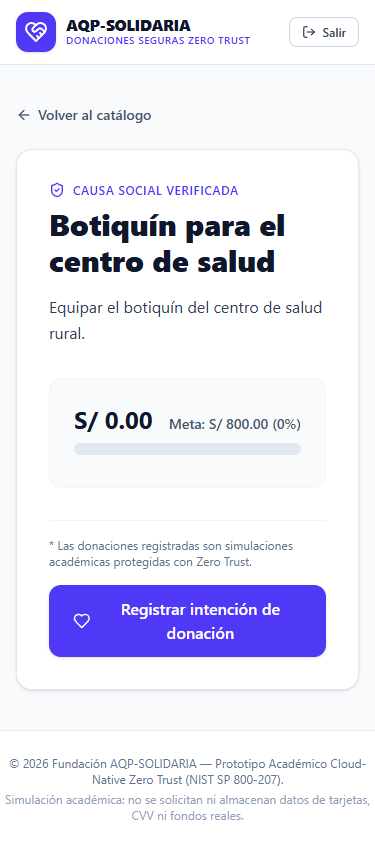
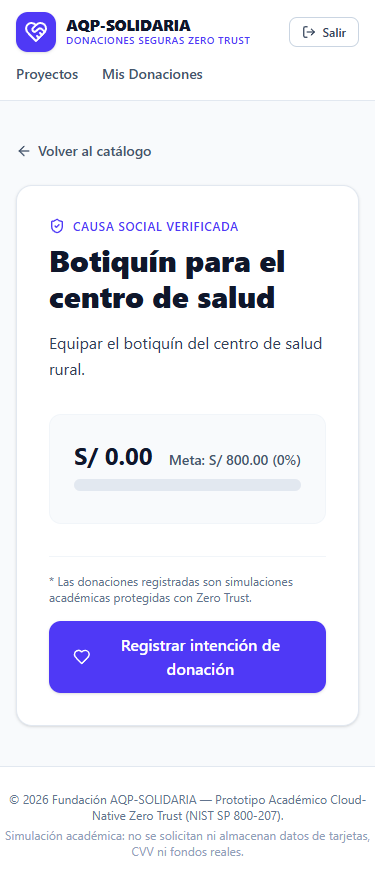
fix(a11y): permitir historial y confirmacion desde movil

diff --git a/frontend/src/components/Navbar.tsx b/frontend/src/components/Navbar.tsx
@@ -14,7 +14,7 @@ export const Navbar: React.FC = () => {
   return (
     <nav className="bg-white border-b border-slate-200 sticky top-0 z-40">
       <div className="max-w-7xl mx-auto px-4 sm:px-6 lg:px-8">
-        <div className="flex justify-between h-16 items-center">
+        <div className="flex flex-wrap justify-between items-center gap-y-3 py-3 md:py-0 md:h-16">
           {/* Brand */}
           <Link to="/" className="flex items-center gap-2.5">
             <div className="w-10 h-10 rounded-xl bg-indigo-600 text-white flex items-center justify-center font-bold text-lg shadow-sm">
@@ -31,7 +31,7 @@ export const Navbar: React.FC = () => {
           </Link>
 
           {/* Navigation Links */}
-          <div className="hidden md:flex items-center gap-6 text-sm font-medium">
+          <div className="order-3 flex w-full flex-wrap items-center gap-x-6 gap-y-3 pb-1 text-sm font-medium md:order-none md:w-auto md:pb-0">
             <Link to="/" className="text-slate-600 hover:text-indigo-600 transition-colors">
               Proyectos
             </Link>
@@ -71,7 +71,7 @@ export const Navbar: React.FC = () => {
           </div>
 
           {/* Auth Actions */}
-          <div className="flex items-center gap-3">
+          <div className="ml-auto md:ml-0 flex items-center gap-3">
             {user ? (
               <div className="flex items-center gap-3">
                 <div className="hidden sm:flex flex-col text-right">
@@ -94,7 +94,7 @@ export const Navbar: React.FC = () => {
                 <button
                   type="button"
                   onClick={logout}
-                  className="inline-flex items-center gap-1.5 px-3 py-1.5 rounded-lg border border-slate-300 text-xs font-semibold text-slate-700 hover:bg-slate-50 focus:outline-none"
+                  className="inline-flex items-center gap-1.5 px-3 py-1.5 rounded-lg border border-slate-300 text-xs font-semibold text-slate-700 hover:bg-slate-50 focus-visible:outline-2 focus-visible:outline-offset-2 focus-visible:outline-indigo-600"
                   title="Cerrar sesión"
                 >
                   <LogOut className="w-3.5 h-3.5" /> Salir
@@ -104,7 +104,7 @@ export const Navbar: React.FC = () => {
               <button
                 type="button"
                 onClick={login}
-                className="inline-flex items-center gap-1.5 px-4 py-2 rounded-xl bg-indigo-600 text-xs font-semibold text-white hover:bg-indigo-700 shadow-sm transition-colors focus:outline-none"
+                className="inline-flex items-center gap-1.5 px-4 py-2 rounded-xl bg-indigo-600 text-xs font-semibold text-white hover:bg-indigo-700 shadow-sm transition-colors focus-visible:outline-2 focus-visible:outline-offset-2 focus-visible:outline-indigo-600"
               >
                 <LogIn className="w-4 h-4" /> Iniciar Sesión (PKCE)
               </button>

diff --git a/backend/test/browser/spa.test.ts b/backend/test/browser/spa.test.ts
@@ -193,6 +193,16 @@ describe.each(SITES)("SPA served as: %s", (kind) => {
       await page.getByRole("button", { name: "Aceptar" }).focus();
       await page.keyboard.press("Enter");
       expect(await opener.evaluate((node) => node === document.activeElement)).toBe(true);
+      const historyLink = page.getByRole("link", { name: "Mis Donaciones" });
+      await historyLink.waitFor();
+      await historyLink.focus();
+      await page.keyboard.press("Enter");
+      const simulate = page.getByRole("button", { name: "Simular Aprobación" }).first();
+      await simulate.waitFor();
+      await simulate.focus();
+      await page.keyboard.press("Enter");
+      await page.getByText("CONFIRMADA_SIMULADA", { exact: true }).waitFor();
+      await capture("simulation-375");
       expect(watched.consoleErrors).toEqual([]);
     } finally {
       await context.close();

diff --git a/evidence/qa-accessibility.md b/evidence/qa-accessibility.md
@@ -13,25 +13,31 @@ El login usa el proveedor del emulador; esta evidencia no verifica el Hosted UI 
 - El resultado conserva un título accesible y recibe el foco al registrarse la donación.
 - El campo monetario admite céntimos (`step=0.01`), en lugar de saltos de S/ 0.50 que impedían enviar S/ 1.01.
 - Los errores del envío tienen `role=alert` y se relacionan con el campo. El botón de cierre tiene foco visible.
+- La navegación ocultaba todos sus enlaces por debajo de 768 px: un donante móvil no podía abrir su historial.
+  Ahora los mismos enlaces se muestran en una fila adaptable, manteniendo la visibilidad por rol.
 
 ## Verificaciones automatizadas
 
 - Catálogo, detalle, modal y confirmación a 375 px sin desbordamiento horizontal de la página.
 - Abrir y enviar con Enter; Tab y Shift+Tab dentro del diálogo; cerrar con Escape y recuperar el foco de apertura.
 - Registrar S/ 1.01 con el backend del emulador y comprobar el resultado y el nombre accesible del diálogo.
+- Abrir Mis Donaciones desde la barra móvil y confirmar la simulación con Enter, hasta `CONFIRMADA_SIMULADA`.
 - Capturas en `.local/qa/built/` y `.local/qa/vite-dev/`, sin tokens ni credenciales.
 
-Resultado: `npm run test:browser` pasó **36/36** pruebas, incluido el caso nuevo en ambos modos. La ejecución
+Resultado inicial: `npm run test:browser` pasó **36/36** pruebas, incluido el caso nuevo en ambos modos. La ejecución
 completa duró 184,74 s. Typecheck de backend/frontend sin errores; ESLint sobre los archivos cambiados sin errores
 (se conserva la advertencia de tamaño del componente). La prueba nueva recorrió ocho Tab seguidos y ocho
 Shift+Tab, además de Escape y retorno de foco. Se inspeccionaron visualmente las cuatro capturas del build.
+Después de extender el recorrido al historial y su simulación, la ejecución focalizada pasó **2/2** (build y Vite),
+en 87,96 s. La captura adicional muestra la confirmación simulada y el acceso móvil al historial.
 
 El caso móvil crea una cuenta DONANTE independiente por modo. El build y Vite comparten stack: reutilizar la cuenta
 de demostración para todos los casos añadía seis donaciones y podía agotar el cupo de cinco por minuto en un runner
 rápido. Se aísla el dato de prueba; no se elevan ni desactivan los límites de seguridad.
 
 Capturas conservadas: [catálogo](qa-mobile/catalog-375.png), [detalle](qa-mobile/detail-375.png),
-[donación](qa-mobile/donation-375.png), [confirmación](qa-mobile/confirmation-375.png).
+[donación](qa-mobile/donation-375.png), [confirmación](qa-mobile/confirmation-375.png),
+[simulación en el historial](qa-mobile/simulation-375.png).
 
 ```powershell
 docker compose -f backend/test/floci/docker-compose.lambda.yml up -d
@@ -44,7 +50,6 @@ No ejecutar a la vez con las suites E2E o rendimiento local: comparten nombres d
 
 Esto demuestra los comportamientos listados; no certifica conformidad WCAG 2.2 AA completa. Faltan la revisión
 humana con lector de pantalla, contraste de todas las vistas y estados, zoom al 200 %, otros navegadores y la
-pasada contra AWS. El login móvil y la simulación de confirmación por teclado necesitan cobertura específica;
-el caso nuevo inicia sesión antes de ajustar el viewport, y termina al registrar la intención.
+pasada contra AWS. El login móvil necesita cobertura específica: el caso inicia sesión antes de ajustar el viewport.
 
 Referencia: [patrón de diálogo modal de W3C](https://www.w3.org/WAI/ARIA/apg/patterns/dialog-modal/).
